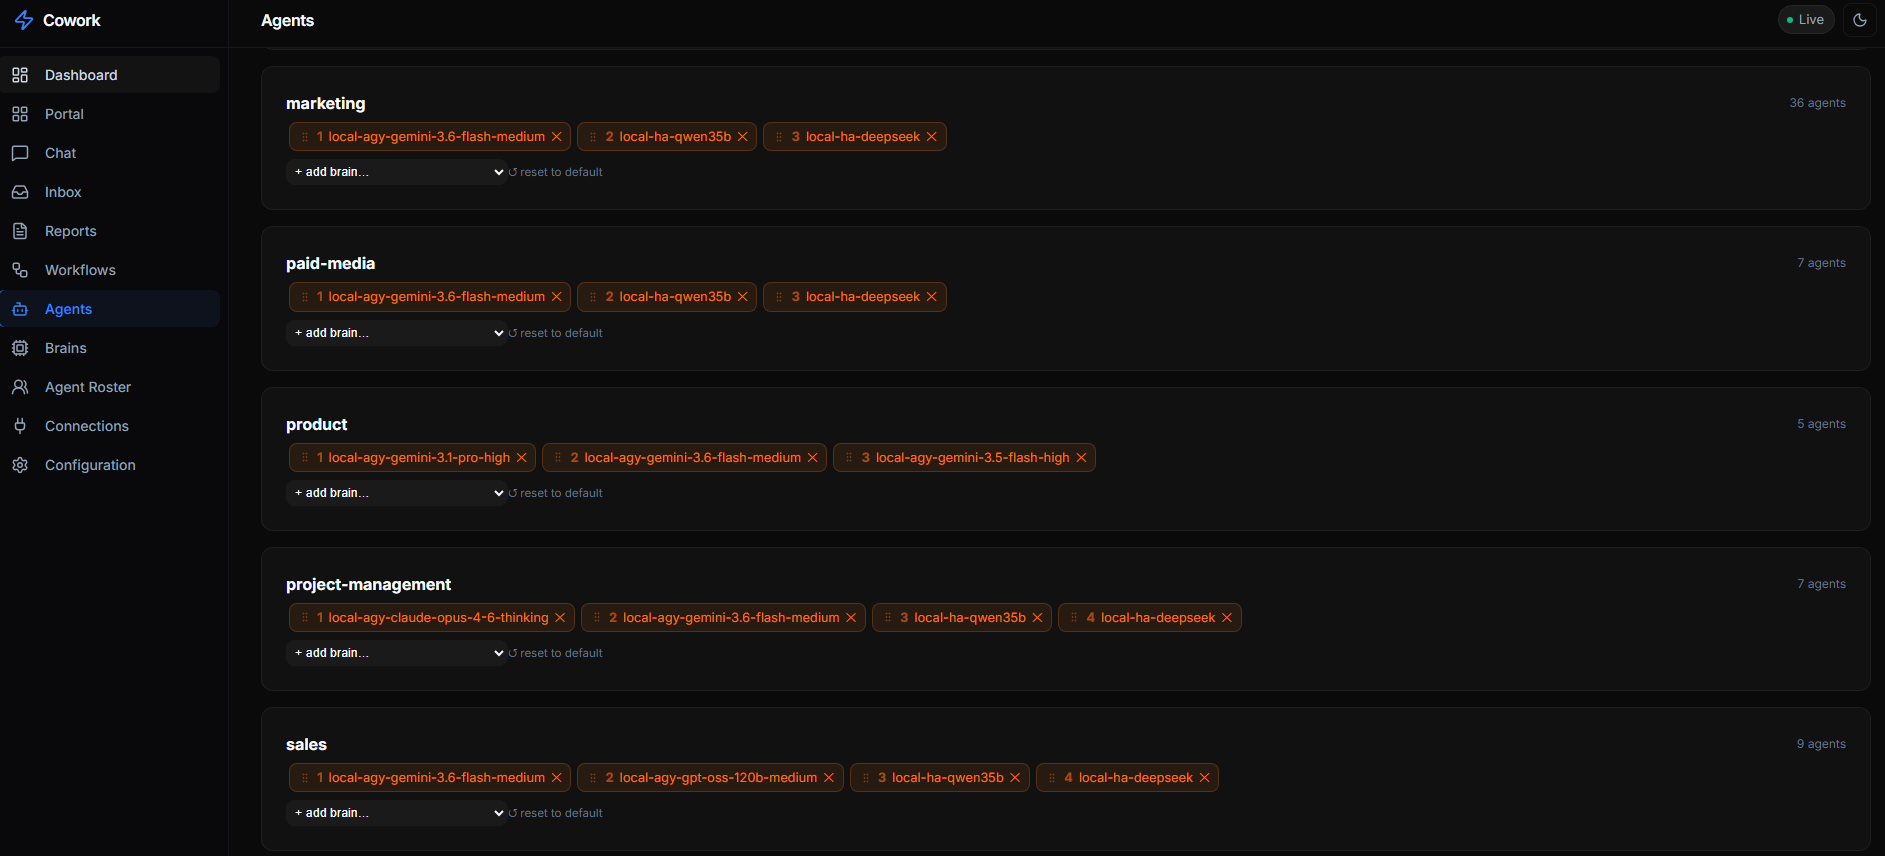
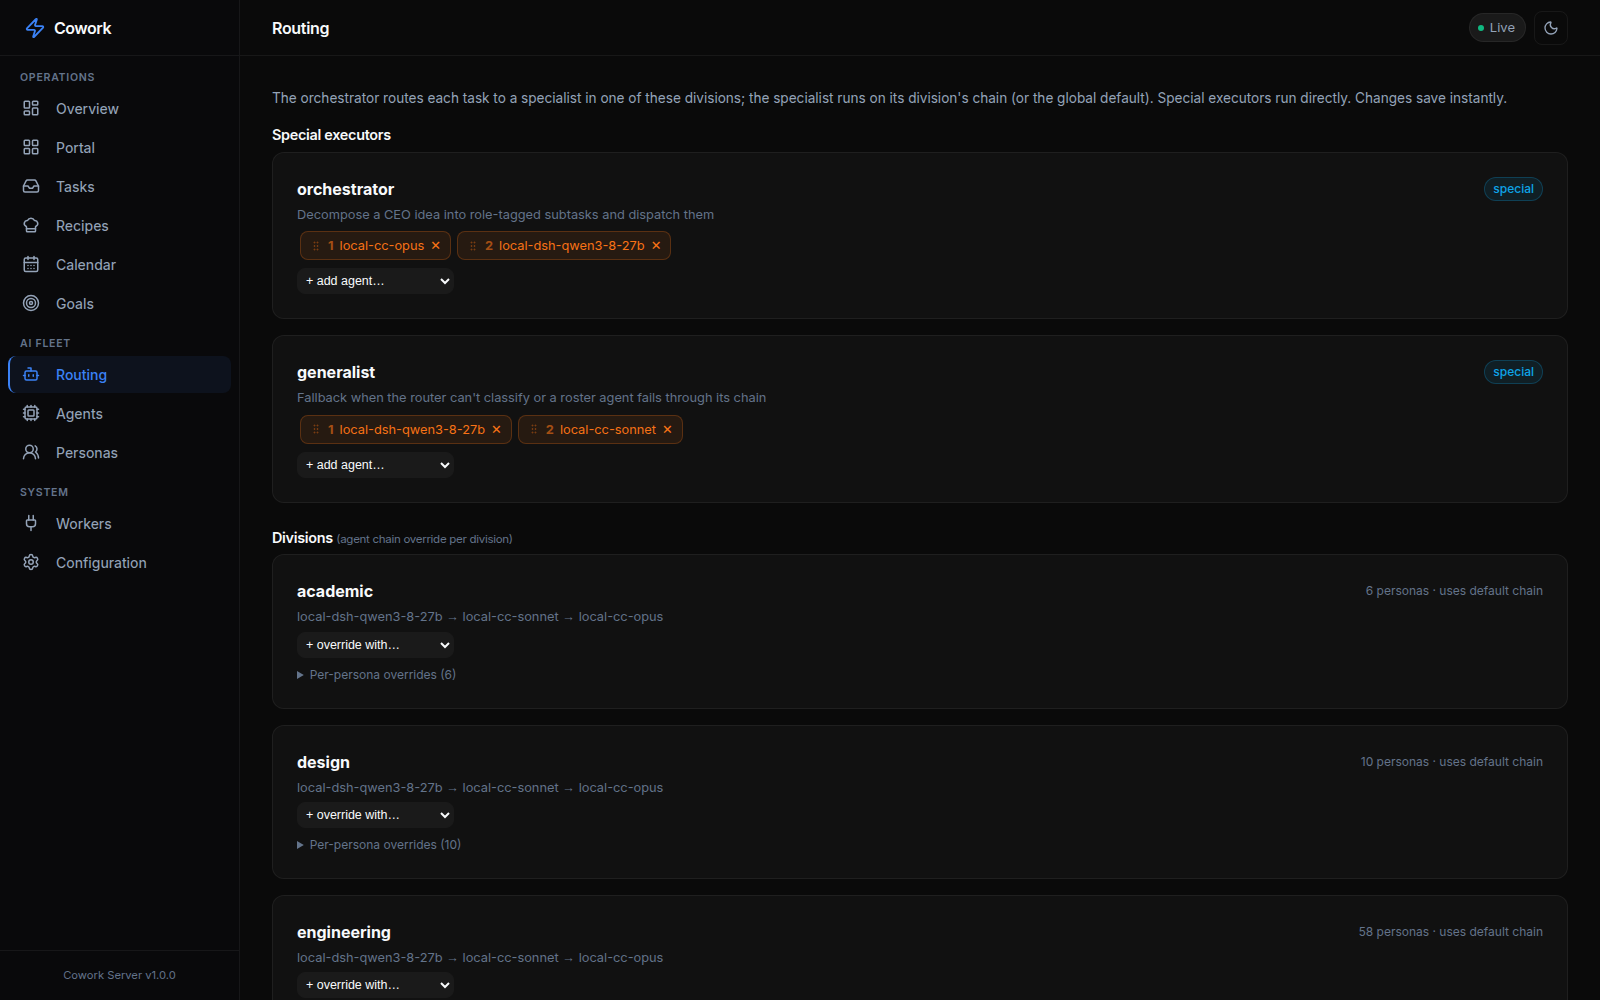
docs: refresh dashboard screenshots and README view names
Recapture all screenshots from the live dashboard (Nov 2026 UI) and add
calendar, goals, recipes, personas, portal, obsidian, integrations and
config shots. Drop images of the removed Workflows and Chat views, and
rename Connections/Agents references to the current Workers/Routing views.

diff --git a/README.md b/README.md
@@ -19,15 +19,28 @@ Jump to: [Quick Start](#quick-start) · [Connecting agents](#connecting-ai-agent
 
 ## Screenshots
 
-One dark-themed **single pane of glass** for the whole operation: live host metrics
-(CPU / GPU / memory / temp), open-task and Agencies counters, the dispatcher's current
-role → model chains, and a real-time activity feed.
+One dark-themed **single pane of glass** for the whole operation. The **Overview** shows live
+host metrics (CPU / GPU / memory / temp), active workers, open tasks and personas, a
+7-day quality panel (pass rate, retries, wait-input, timeouts), the latest agent
+**rulings**, the dispatcher's role → model chains, and a real-time activity feed.
 
 ![Cowork dashboard — metrics, counters, dispatcher chains, and live activity](docs/images/cowork-dashboard.png)
 
-The [Task Inbox](#task-execution--the-dispatcher), [Agents](#agents--named-execution-identities-model--platform--location),
-and [Connections](#wiring-a-remote-agent-machine) views are
-shown in context throughout this README.
+The sidebar groups every view: **Operations** (Overview, Portal, Tasks, Recipes, Calendar,
+Goals), **AI Fleet** (Routing, Agents, Personas) and **System** (Workers, Configuration).
+The [Tasks](#task-execution--the-dispatcher), [Routing](#agent-fallback-chains-get-apichains),
+[Agents](#agents--named-execution-identities-model--platform--location) and
+[Workers](#wiring-a-remote-agent-machine) views are shown in context throughout this README.
+
+| **Calendar** — scheduled tasks and recurring routines by week | **Goals** — long-running goals with phases, decisions and budget |
+|---|---|
+| ![Calendar view — week grid of scheduled and recurring tasks](docs/images/cowork-calendar.png) | ![Goals view — an achieved goal with done-when criteria, phases and progress](docs/images/cowork-goals.png) |
+| **Recipes** — saved tasks you re-run with one click | **Personas** — ~285 expert personas, searchable by division |
+| ![Recipes view — saved recurring tasks with run counts and Run buttons](docs/images/cowork-recipes.png) | ![Personas view — expert persona cards grouped by division](docs/images/cowork-personas.png) |
+| **Portal** — one-click launcher for local web services | **Obsidian Vault** — the shared, readable knowledge base |
+| ![Portal view — cards for Obsidian Vault, DeepTutor, Video Studio, File Browser and more](docs/images/cowork-portal.png) | ![Obsidian vault viewer — notes tree and a rendered note](docs/images/cowork-obsidian.png) |
+| **Integrations** — audited GitHub repos installed as skills / MCP / portal cards | **Configuration** — every setting, editable live |
+| ![Integrations page — add a repository, audit results, installed skills](docs/images/cowork-integrations.png) | ![Configuration view — orchestration settings and default chain](docs/images/cowork-config.png) |
 
 ## Supported Platforms
 
@@ -306,10 +319,10 @@ A chain runs top → bottom: the task runs on `chain[0]`; on failure the dispatc
 each attempt, until success or the chain is exhausted. Pin a single task to one
 agent with `context.agent: "<id>"`.
 
-The **Agents** view exposes the per-division chain for every division — drag to reorder,
+The **Routing** view exposes the per-division chain for every division — drag to reorder,
 `＋ add agent…`, or reset to the global default. No template edits, no restart.
 
-![Routing view — per-division agent fallback chains, editable inline](docs/images/cowork-roles.png)
+![Routing view — special executors and per-division agent fallback chains, editable inline](docs/images/cowork-roles.png)
 
 ## Vocabulary
 
@@ -486,19 +499,19 @@ systemctl --user daemon-reload && systemctl --user enable --now cowork-remote-ag
 It connects to `COWORK_URL/mcp`, `register_agent`s (declaring its `AGENTS`, which
 auto-register into the registry), then polls and claims only tasks whose
 `context.agent` is one of its agent ids, runs the matching `EXEC`/`MODEL`, and
-`complete_task`s with its result and uploaded artifacts — appearing in **Connections** like any other
+`complete_task`s with its result and uploaded artifacts — appearing in **Workers** like any other
 client. **Flexible**: the same script serves any agent by changing env only.
 **Scalable**: add machines/agents by adding `<name>.env` files; claims are atomic
 (single-process compare-and-set) so even multiple clients on the *same* agent id
 never double-run a task — first claim wins.
 
-Every connected client shows up live in the **Connections** view — grouped by platform,
+Every connected client shows up live in the **Workers** view — grouped by platform,
 listing the agents it offers, its idle/busy state, and a per-session tally of how many
 tasks each agent has run vs. submitted:
 
-![Connections view — live MCP clients, the agents they offer, and per-agent invocation counters](docs/images/cowork-connections.png)
+![Workers view — local agent usage meters, live MCP clients, and per-agent invocation counters](docs/images/cowork-connections.png)
 
-The always-on coordinator agent shown in **Connections** as `cowork/orchestrator`
+The always-on coordinator agent shown in **Workers** as `cowork/orchestrator`
 polls the inbox, two-stage-routes unassigned tasks, reclaims orphans, and
 dispatches; transient per-task workers appear as e.g.
 `testing / Workflow Optimizer · local-hermes-qwen3.8-27b` or `video · local-comfy-ltx`
@@ -696,13 +709,8 @@ AGY Agent calls:
 A **workflow** is a version-controlled template (`workflows/<id>.json`). It runs
 in one of two modes, chosen per template with `"mode"`:
 
-The **Workflows** view renders each template as a live graph — sequential fan-through
-pipelines and parallel fan-out/fan-in diamonds alike — with every step pinned to a
-division or agent, plus **Dry run** (inspect the resolved plan) and **Run** controls:
-
-| `build-and-ship` — a 5-step engineering pipeline | `expand-perspectives` — parallel multi-lens fan-out → synthesis |
-|---|---|
-| ![Build & Ship workflow — architect → build → CI → review → push](docs/images/cowork-workflows-1.png) | ![Expand Perspectives and Feedback → Roadmap workflows](docs/images/cowork-workflows-2.png) |
+Workflows are run through the MCP tools and the REST API (see below); each step is
+pinned to a division or agent and becomes an ordinary task in the **Tasks** view.
 
 
 - **`dag`** (default) — **static & deterministic.** The steps form a DAG wired by
